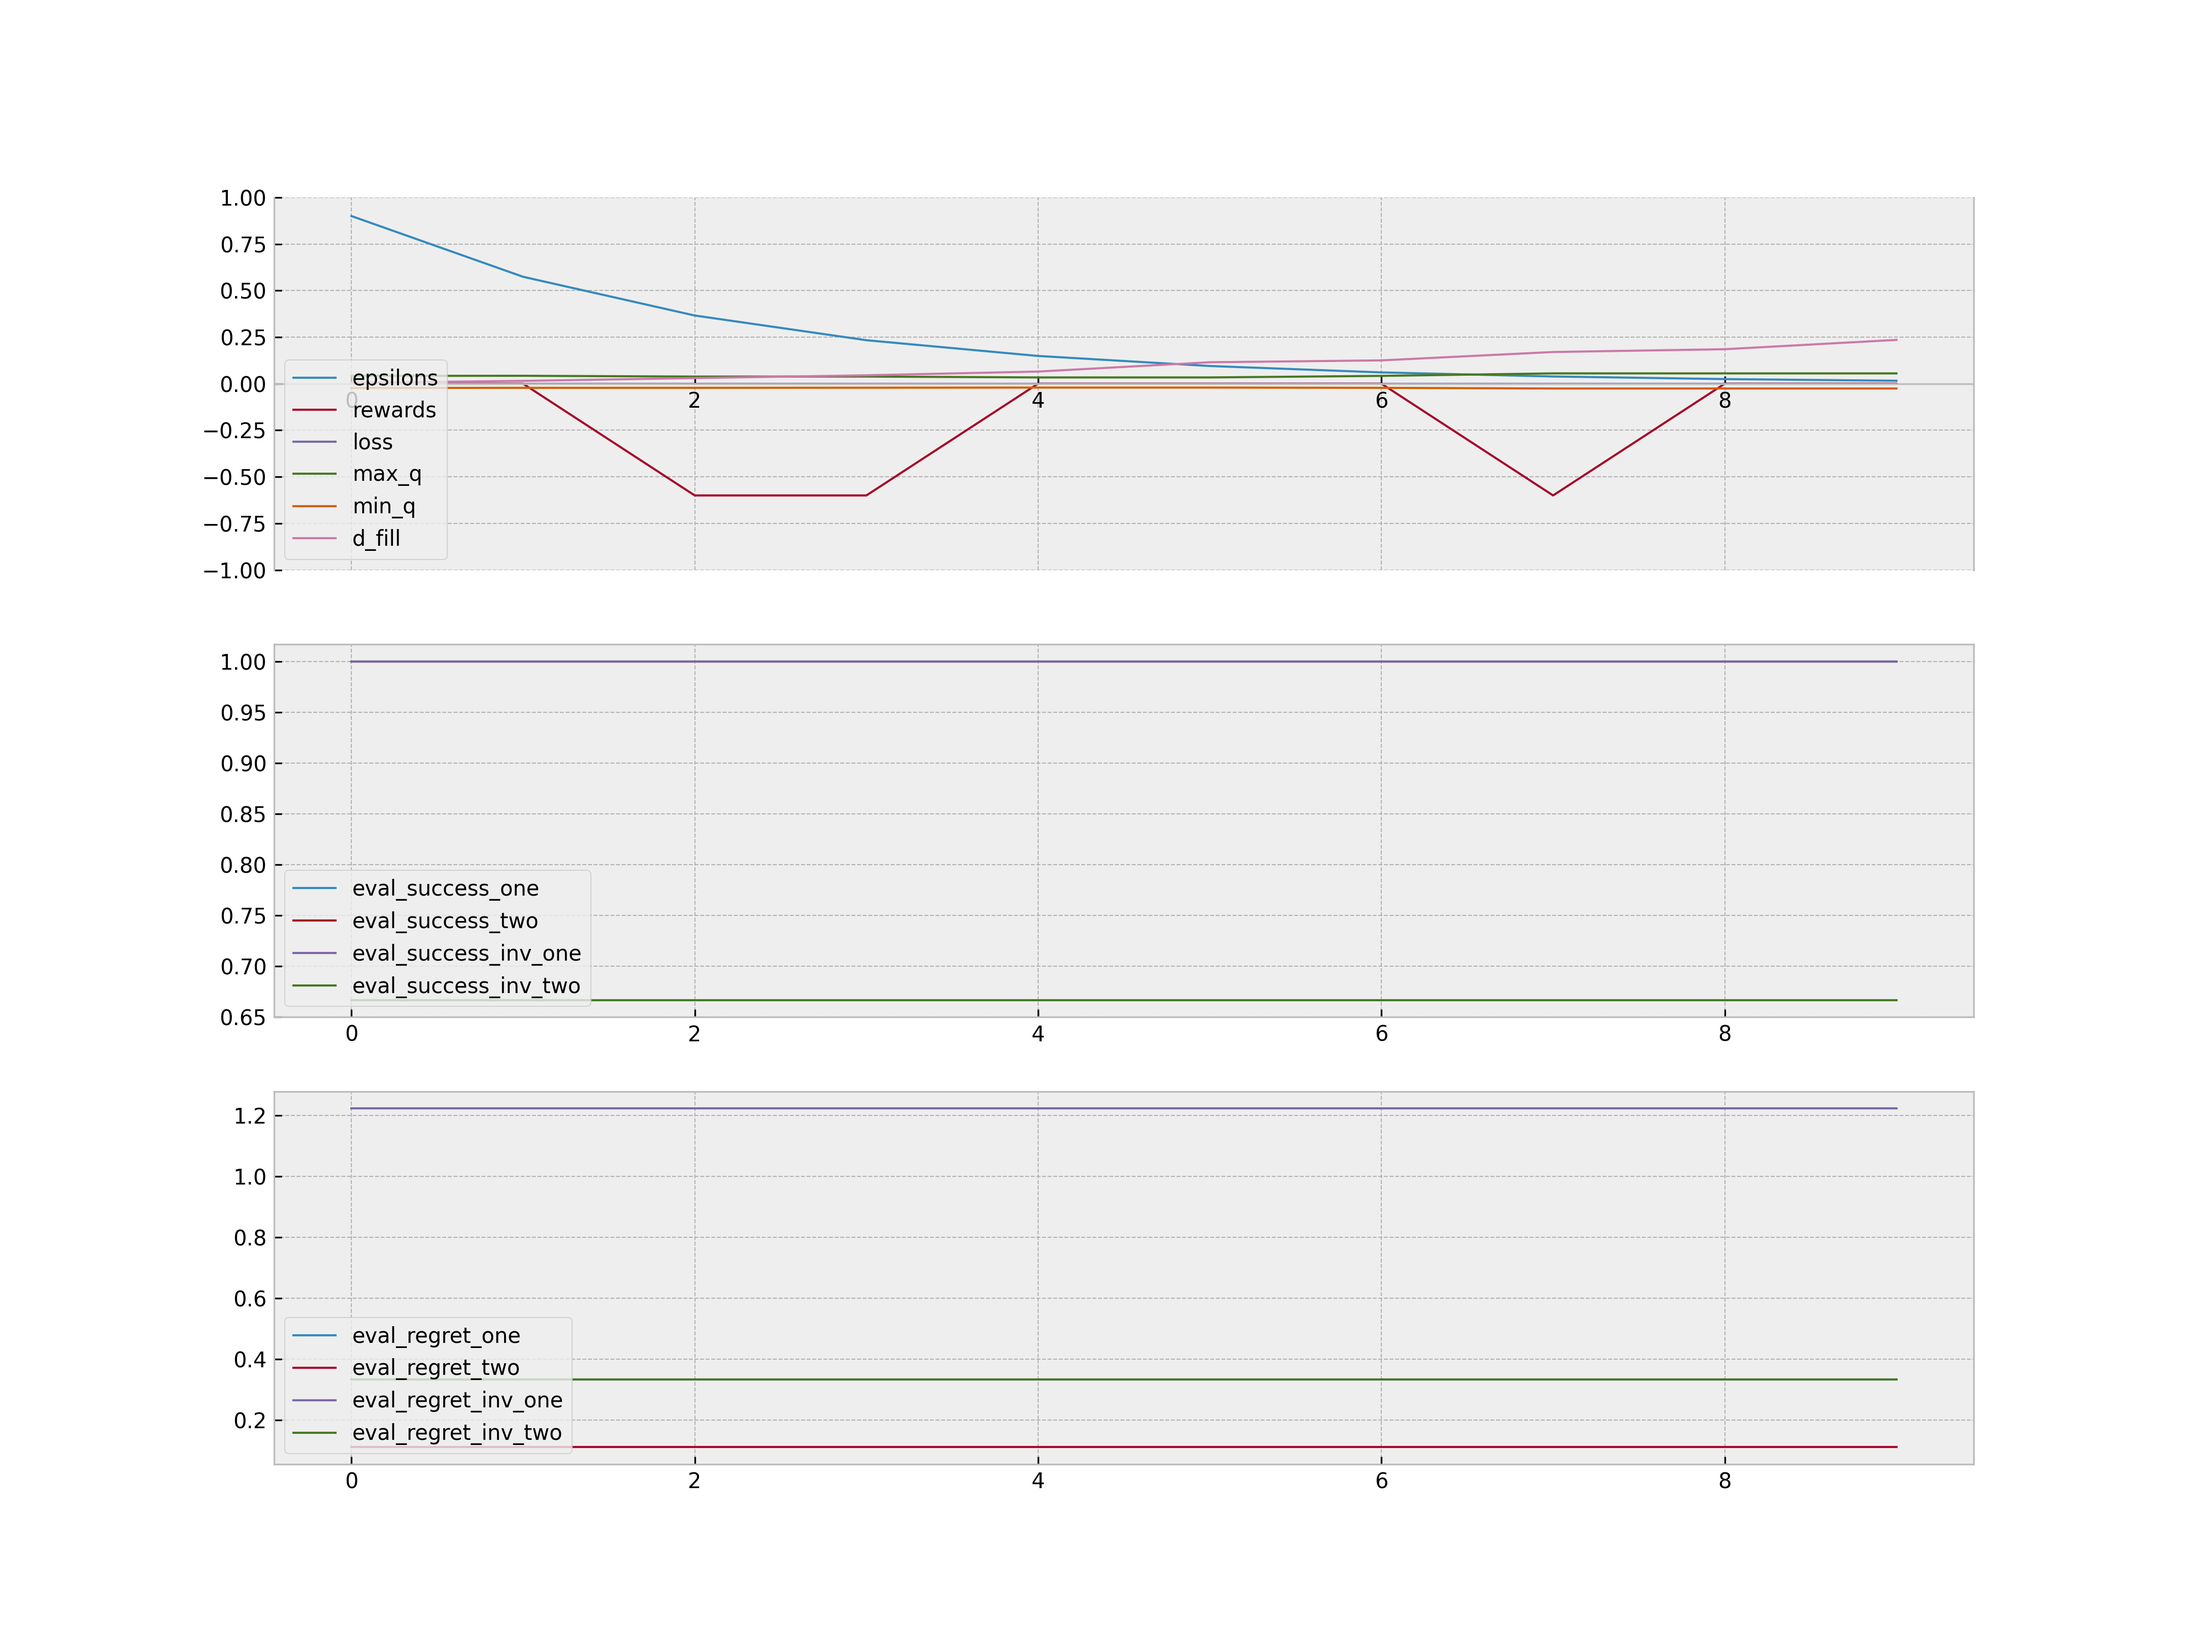
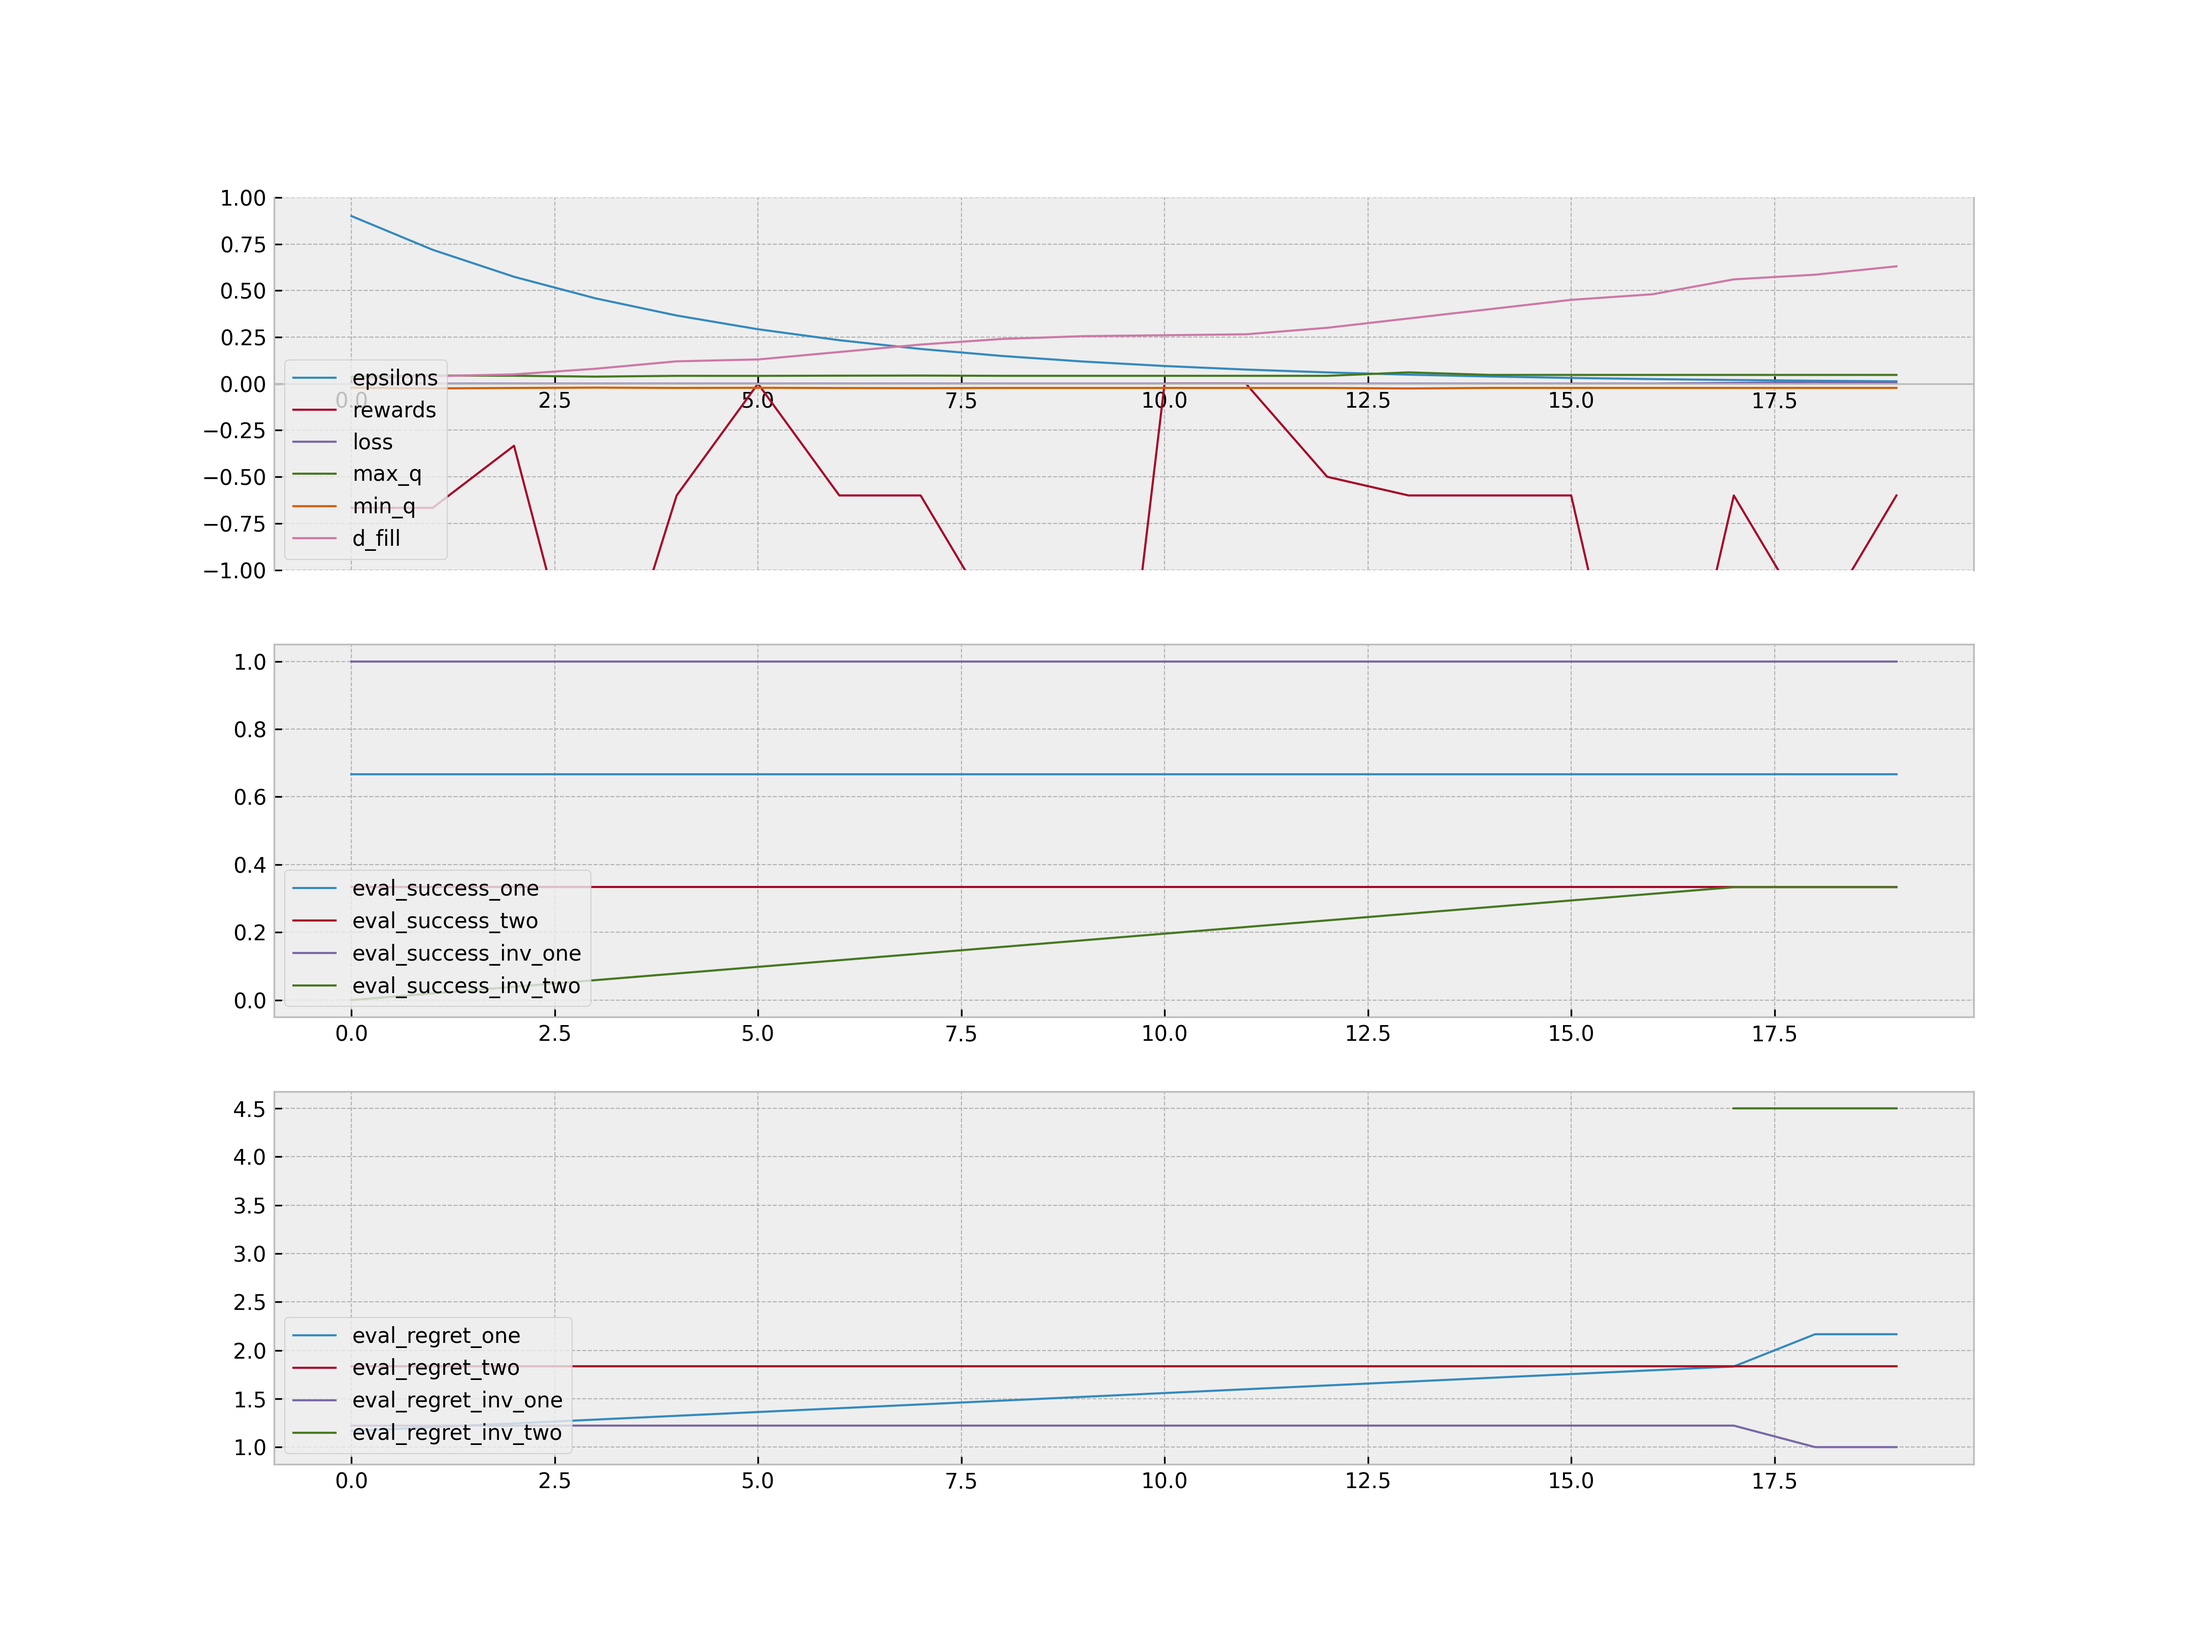
shorter debug run

diff --git a/planner/mapf_with_rl/mapf_with_rl.py b/planner/mapf_with_rl/mapf_with_rl.py
@@ -478,7 +478,7 @@ if __name__ == "__main__":
     data_test = {"one": make_useful_scenarios(3, True, 4, 3, 3, random.Random(0)),
                  "two": make_useful_scenarios(3, True, 8, 6, 3, random.Random(0))}
     stats = q_learning(
-        n_episodes=100,
+        n_episodes=20,
         eps_start=.9,
         c=2,
         gamma=.9,
